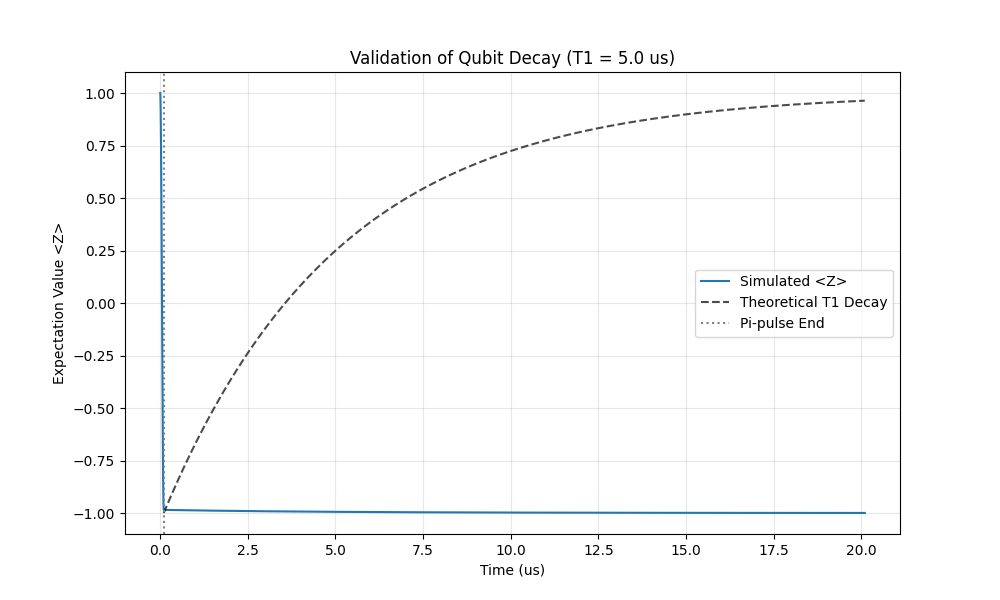
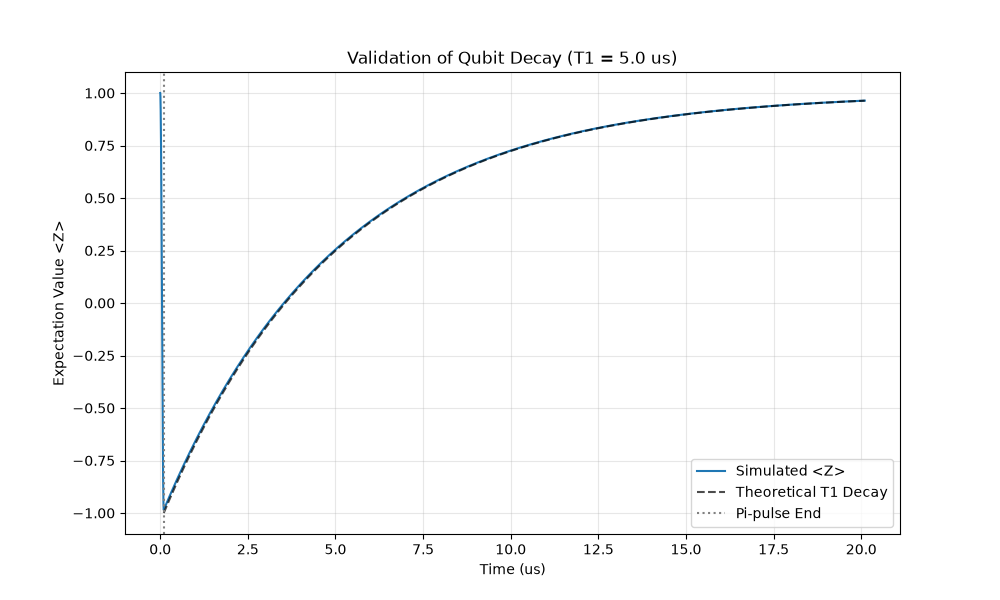
resolve T1 decay operator bug

diff --git a/src/qblox_sim/simulator.py b/src/qblox_sim/simulator.py
@@ -31,7 +31,8 @@ class QbloxQutipSimulator:
         self.sx = qutip.tensor(qutip.sigmax(), qutip.identity(self.N_res))
         self.sy = qutip.tensor(qutip.sigmay(), qutip.identity(self.N_res))
         self.sz = qutip.tensor(qutip.sigmaz(), qutip.identity(self.N_res))
-        self.sm = qutip.tensor(qutip.sigmam(), qutip.identity(self.N_res))
+        #NOTE: QuTiP recommends .destroy() for lowering
+        self.sm = qutip.tensor(qutip.destroy(2), qutip.identity(self.N_res))
         
         self.a = qutip.tensor(qutip.identity(2), qutip.destroy(self.N_res))
         self.ad = self.a.dag()
@@ -59,7 +60,7 @@ class QbloxQutipSimulator:
         if t_rel < 0 or t_rel > duration:
             return 0.0j
         
-        amp = pulse_info.get('amp', 0.0)
+        amp = pulse_info.get('amplitude', pulse_info.get('amp', 0.0))
         phase_deg = pulse_info.get('phase', 0.0)
         phase_rad = np.deg2rad(phase_deg)
         
@@ -133,6 +134,7 @@ class QbloxQutipSimulator:
             durations.append(dur)
             wfs.append(wf)
             
+        pulses['amplitude'] = amps
         pulses['amp'] = amps
         pulses['phase'] = phases
         pulses['duration'] = durations
@@ -246,6 +248,8 @@ class QbloxLoopSimulator(QbloxQutipSimulator):
     def _resolve_value(self, val, mapping: dict):
         if hasattr(val, 'substitute'):
             return val.substitute(mapping)
+        if hasattr(val, 'name') and val.name in mapping:
+            return mapping[val.name]
         return val
 
     def simulate(self, schedule: Schedule, initial_state: qutip.Qobj = None):
@@ -285,6 +289,8 @@ class QbloxLoopSimulator(QbloxQutipSimulator):
                             # Resolve LinearDomain value for this iteration
                             val = domain.start + it_idx * (domain.stop - domain.start) / (domain.num - 1) if domain.num > 1 else domain.start
                             mapping[var] = val
+                            if hasattr(var, 'name'):
+                                mapping[var.name] = val
                 
                 # Extract and resolve pulse info
                 a, p, dur, wf = 0.0, 0.0, row['duration'], 'square'
@@ -293,7 +299,7 @@ class QbloxLoopSimulator(QbloxQutipSimulator):
                 
                 if p_info_list:
                     p_info = p_info_list[0]
-                    a = self._resolve_value(p_info.get('amp', 0.0), mapping)
+                    a = self._resolve_value(p_info.get('amplitude', 0.0), mapping)
                     p = self._resolve_value(p_info.get('phase', 0.0), mapping)
                     dur = self._resolve_value(p_info.get('duration', row['duration']), mapping)
                     wf = p_info.get('wf_func', 'square')
